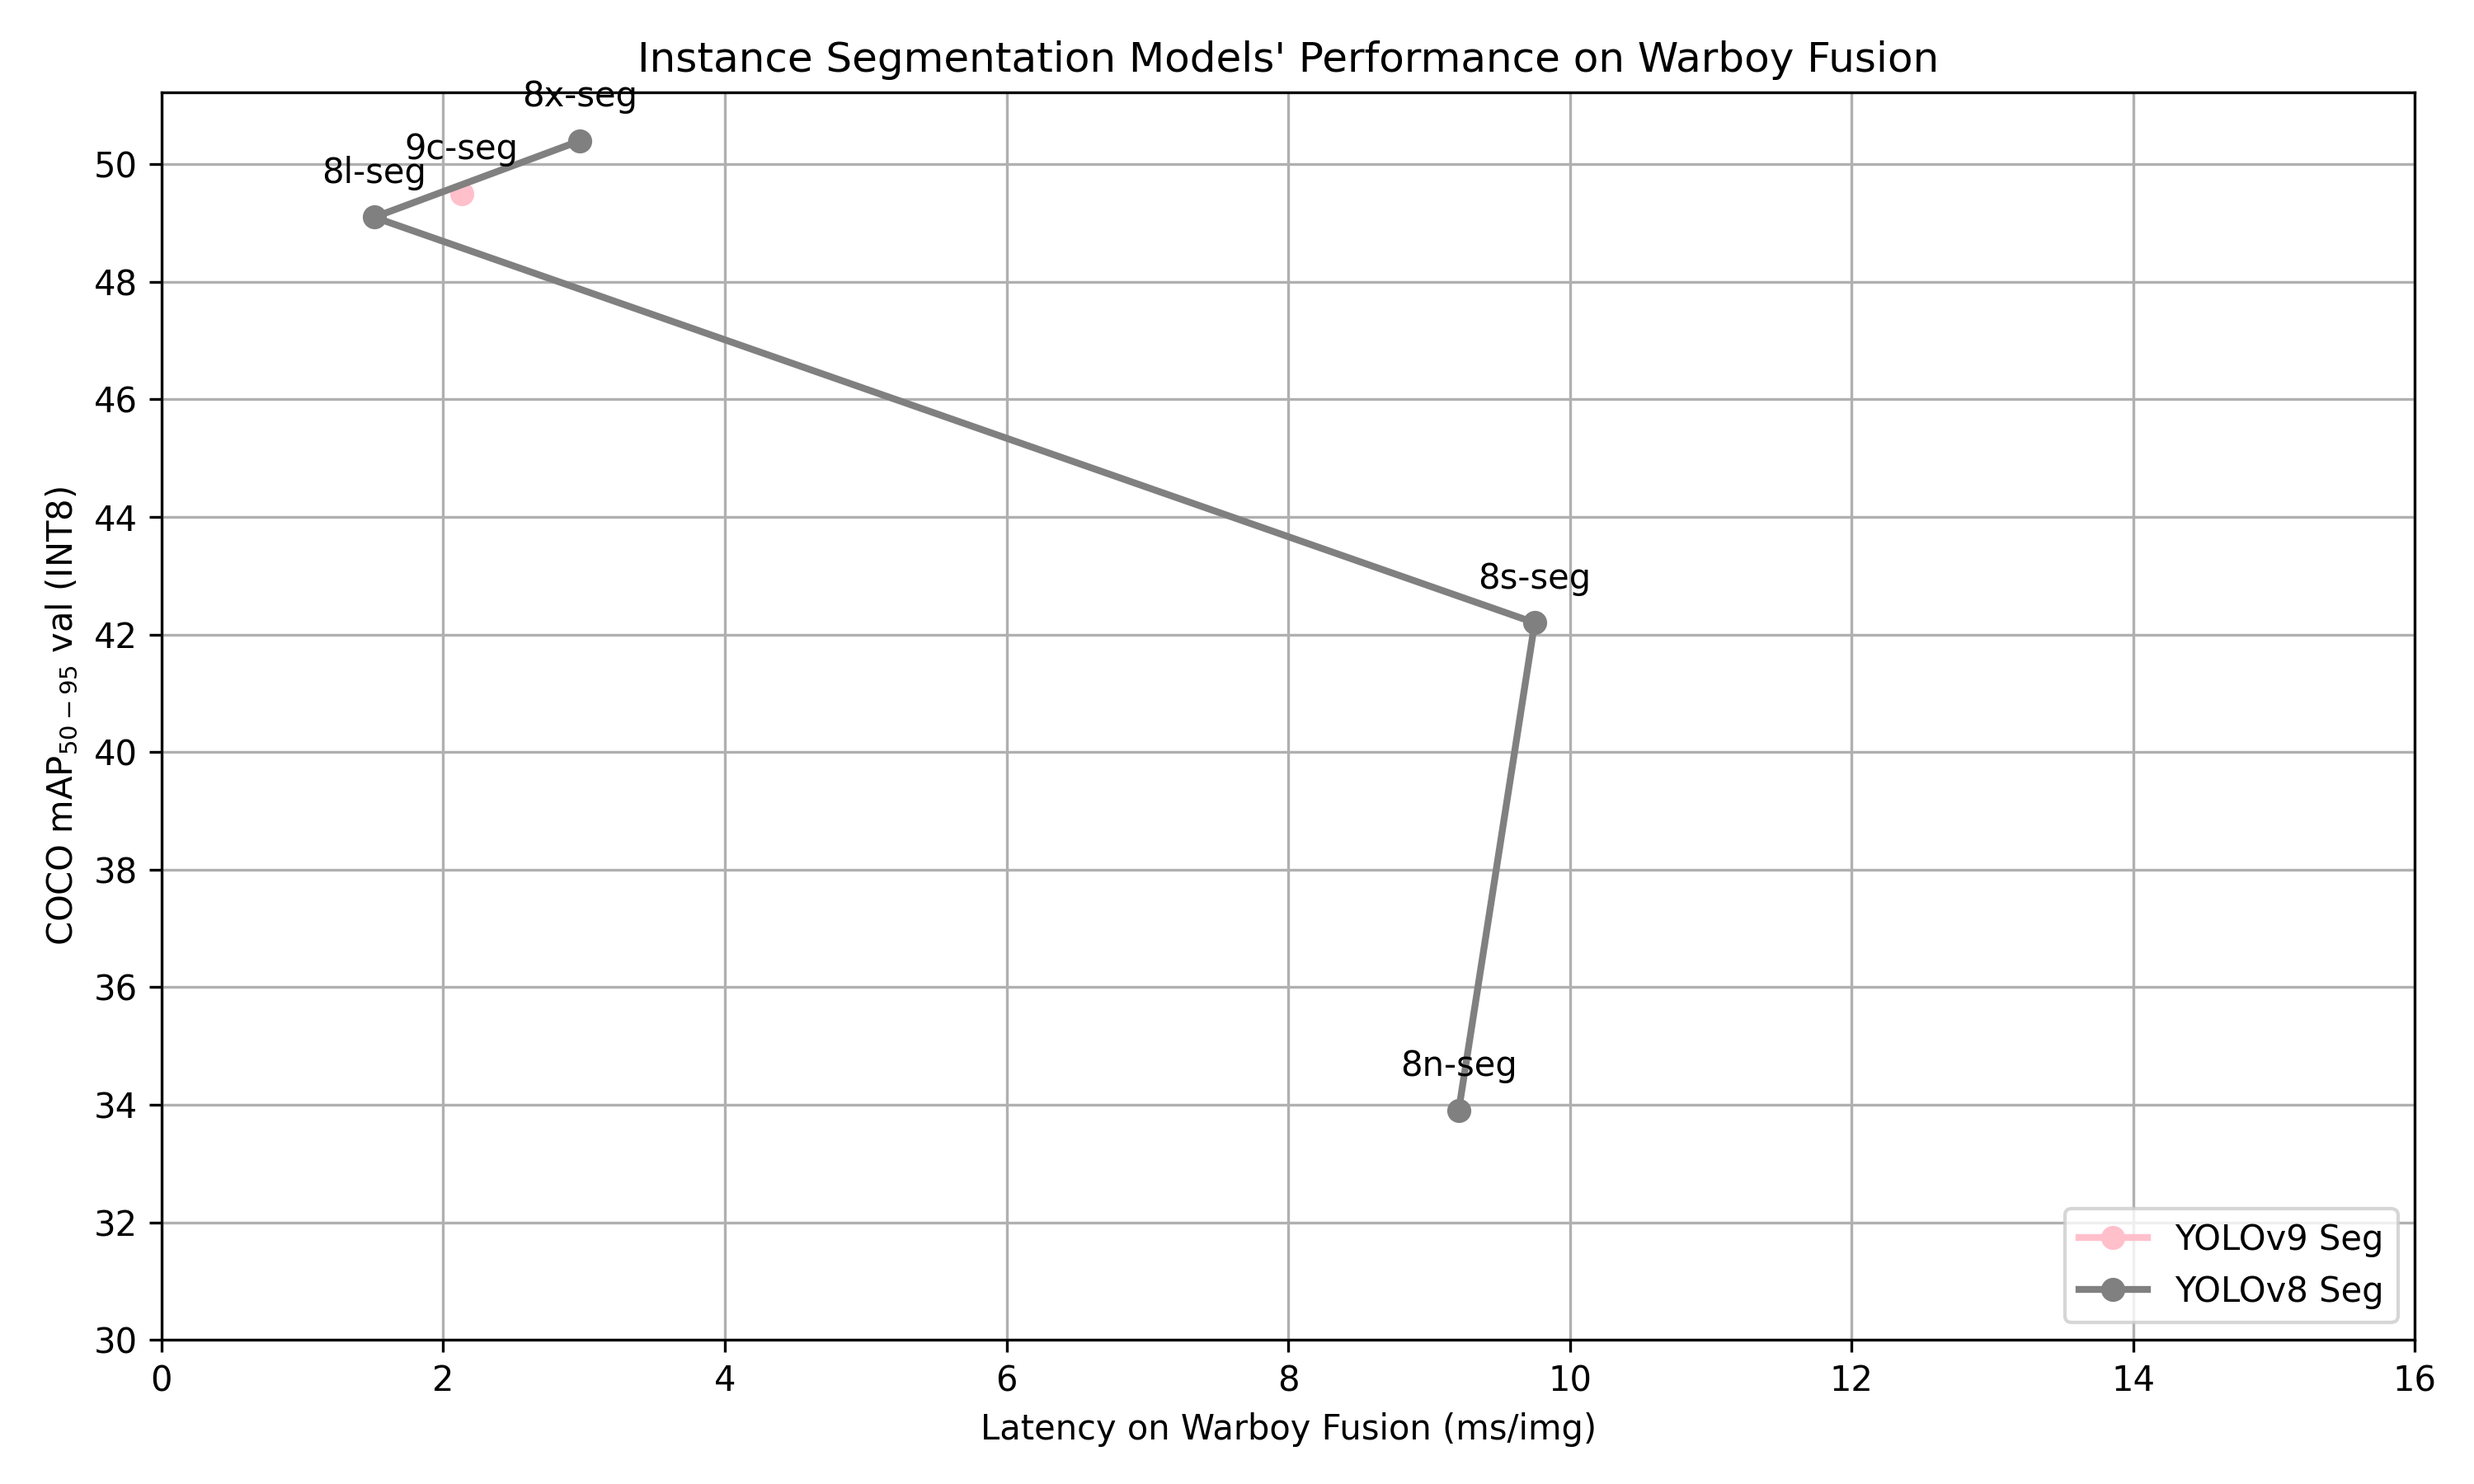
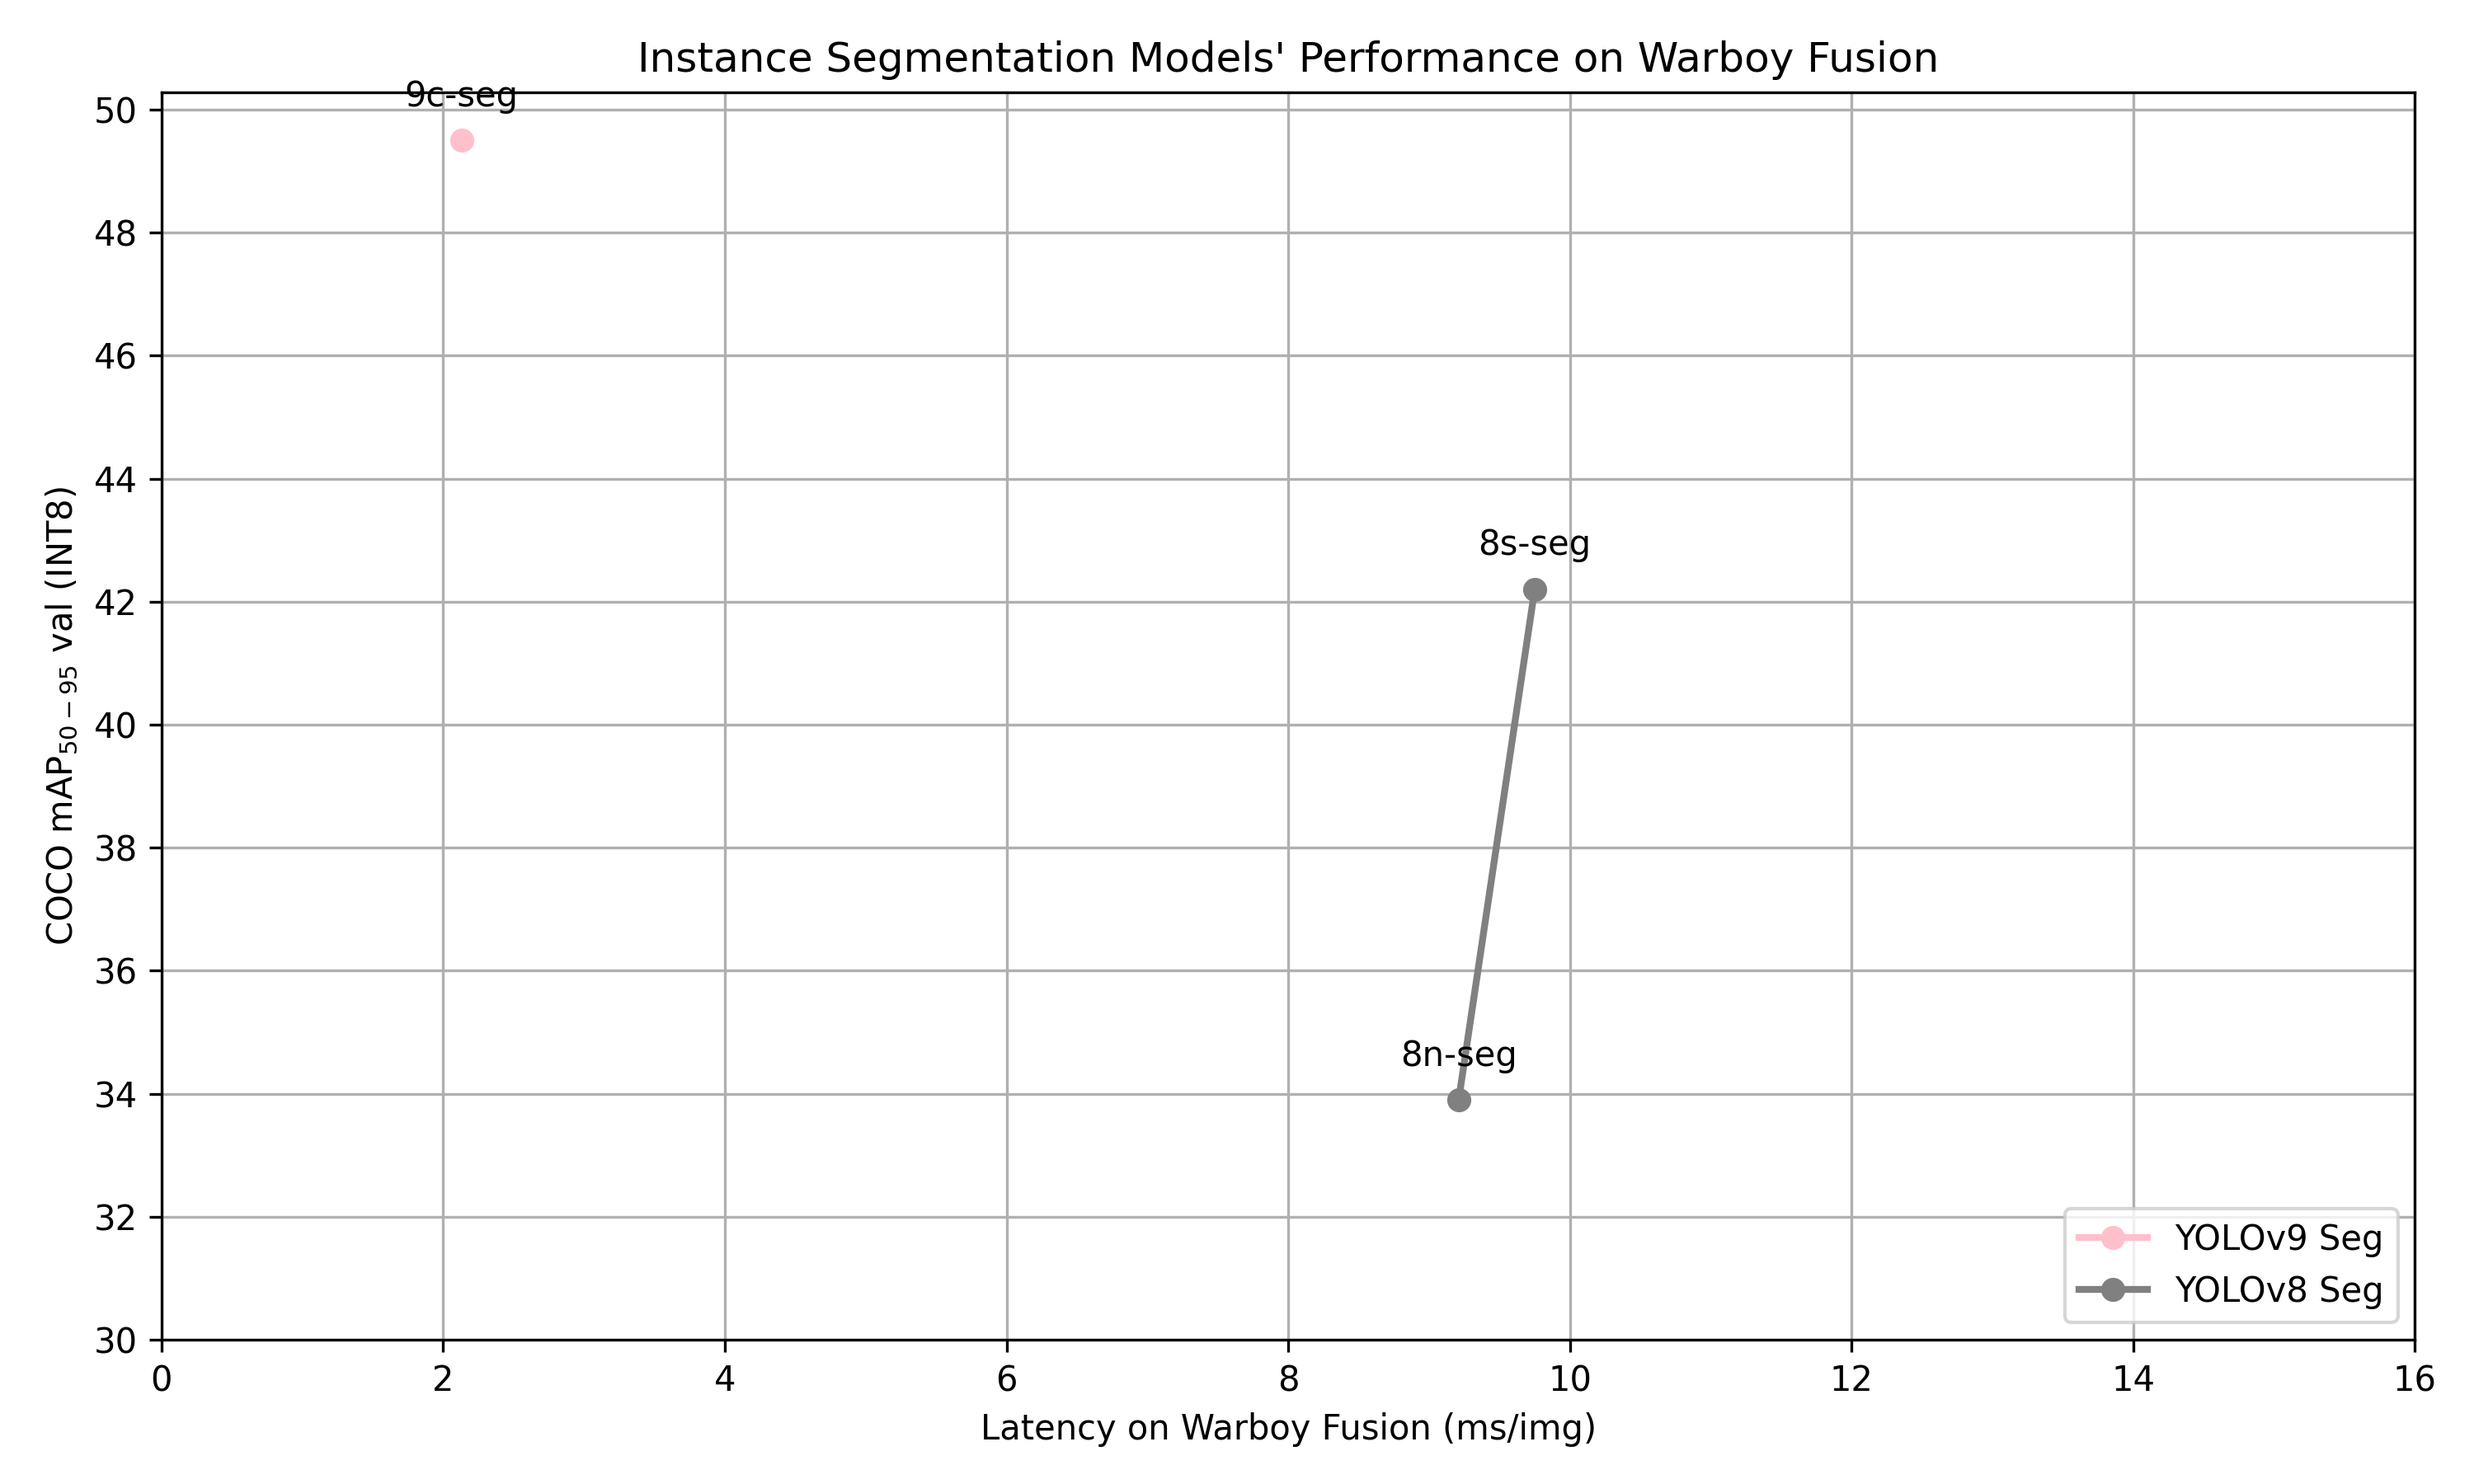
[fix] performance results

diff --git a/data/graph/graph_single_seg.py b/data/graph/graph_single_seg.py
@@ -6,9 +6,9 @@ yolov9_seg = ["9c-seg"]
 yolov9_seg_mAP = [49.5]
 yolov9_seg_latency = [2.60]
 
-yolov8_seg = ["8n-seg", "8s-seg", "8l-seg", "8x-seg"]
-yolov8_seg_mAP = [33.9, 42.2, 49.1, 50.4]
-yolov8_seg_latency = [12.59, 14.86, 1.89, 4.17]
+yolov8_seg = ["8n-seg", "8s-seg"]
+yolov8_seg_mAP = [33.9, 42.2]
+yolov8_seg_latency = [12.59, 14.86]
 
 # 그래프 스타일
 plt.figure(figsize=(10, 6))

diff --git a/data/graph/graph_fusion_seg.py b/data/graph/graph_fusion_seg.py
@@ -6,9 +6,9 @@ yolov9_seg = ["9c-seg"]
 yolov9_seg_mAP = [49.5]
 yolov9_seg_latency = [2.13]
 
-yolov8_seg = ["8n-seg", "8s-seg", "8l-seg", "8x-seg"]
-yolov8_seg_mAP = [33.9, 42.2, 49.1, 50.4]
-yolov8_seg_latency = [9.21, 9.75, 1.51, 2.97]
+yolov8_seg = ["8n-seg", "8s-seg"]
+yolov8_seg_mAP = [33.9, 42.2]
+yolov8_seg_latency = [9.21, 9.75]
 
 # 그래프 스타일
 plt.figure(figsize=(10, 6))

diff --git a/README.md b/README.md
@@ -99,9 +99,9 @@ Instance segmentation is a technology that identifies multiple objects in an ima
 | YOLOv9e-seg | 640x640                     | 55.1                        |                             | 44.3                         |                              | 3.78  (6.40)                    | 5.36  (8.01)                       |
 | YOLOv8n-seg | 640x640                     | 36.7                        | 33.9                        | 30.5                         | 27.8                         | 9.21  (10.61)                   | 12.59 (14.28)                      |
 | YOLOv8s-seg | 640x640                     | 44.6                        | 42.2                        | 36.8                         | 34.2                         | 9.75  (11.12)                   | 14.86 (17.38)                      |
-| YOLOv8m-seg | 640x640                     | 49.9                        | 47.3                        | 40.8                         | 38.2                         |                                 |                                    |
-| YOLOv8l-seg | 640x640                     | 52.3                        | 49.1                        | 42.6                         | 39.3                         | 1.51  (4.10)                    | 1.89  (4.86)                       |
-| YOLOv8x-seg | 640x640                     | 53.4                        | 50.4                        | 43.4                         | 40.1                         | 2.97  (5.26)                    | 4.17  (10.67)                      |
+| YOLOv8m-seg | 640x640                     | 49.9                        | 47.3                        | 40.8                         | 38.2                         |                                    |
+| YOLOv8l-seg | 640x640                     | 52.3                        | 49.1                        | 42.6                         | 39.3                         |                                    |
+| YOLOv8x-seg | 640x640                     | 53.4                        | 50.4                        | 43.4                         | 40.1                         |                                    |
 </div>
 </details>
 
